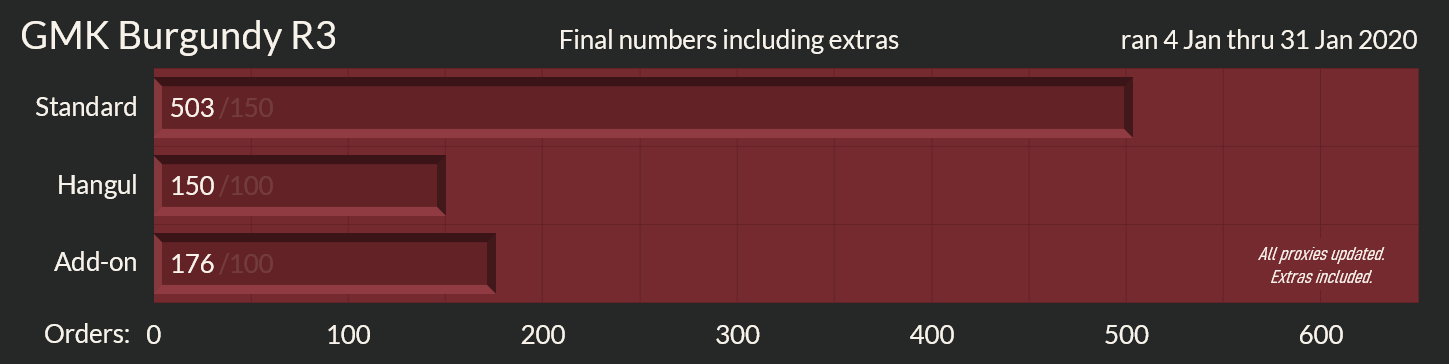
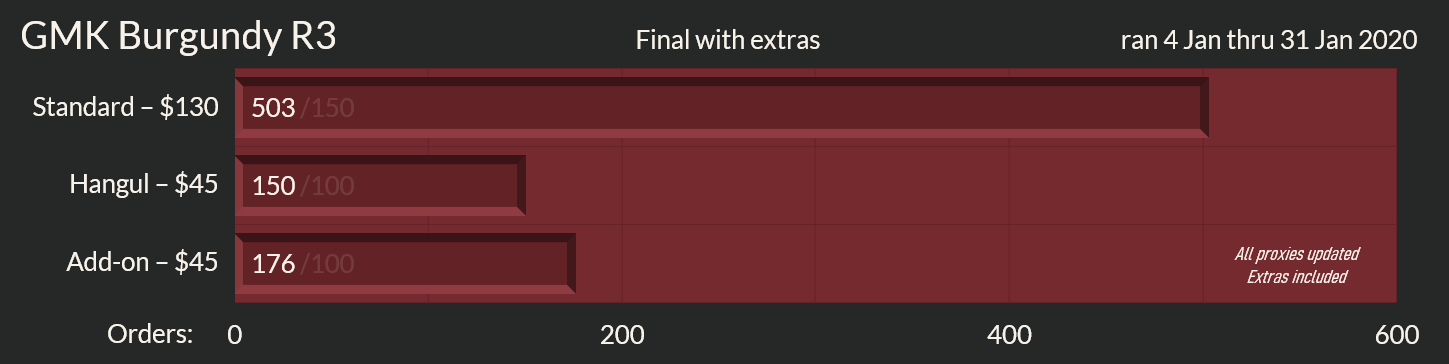
There are 18 files have been modified at 2023-06-11 18:00:20 . 	-rw-rw-r--. 1 jzou jzou 28740 Jun 11 11:37 assets/images/gmk-keycaps/burgundyr3/order.png 	-rw-rw-r-- 1 jzou jzou 1915 Jun 11 11:36 docs/gmk-keycaps/Burgundy-R2.md 	-rw-rw-r-- 1 jzou jzou 2297 Jun 11 11:25 docs/gmk-keycaps/Camping.md 	-

diff --git a/script/download_graph.py b/script/download_graph.py
@@ -11,6 +11,7 @@ TEMP_PIC_FILE = '/tmp/KEYCAP_PIC_FILE'
 
 def download_graph(url, path, sub_path, name):
 
+#    print (os.path.join(path, sub_path, name))
     pattern = r"%s\..*" % name
     for file_name in os.listdir(os.path.join(path, sub_path)):
         if re.match(pattern, file_name):
@@ -37,7 +38,7 @@ def download_graph(url, path, sub_path, name):
         os.rename(TEMP_PIC_FILE, file_path_name)
         return file_path_name
     else:
-        print(file_format)
+#        print(file_format)
         return False
 
 if __name__ == '__main__':

diff --git a/script/generate_md_download_v2.py b/script/generate_md_download_v2.py
@@ -120,6 +120,10 @@ def generate_graph_info(url, sub_path, name):
     if not os.path.isdir(path):
         os.makedirs(path)
     graph_path = download_graph.download_graph(url, KEYCAP_ASSETS_WITH_PATH, sub_path, name)
+    if not graph_path: 
+        print ("unable to download {} from {}".format(name, url))
+        os._exit(os.EX_OSERR)
+
     resize_pic.resize_file(graph_path)
     graph_info = """<img src=\"{{{{ '{}' | relative_url }}}}\" alt=\"{}\" class=\"image featured\">
 """.format(os.path.relpath(graph_path, os.getcwd()), name)

diff --git a/script/exchange_rate.py b/script/exchange_rate.py
@@ -16,9 +16,7 @@ def retrieve_exchange_rate(date, currency = 'USD'):
 
     currency_checked = "currencies=%s,CNY,%s" % ("USD", currency)
     api_url = "%s&%s&%s&%s" % (API_BASE_URL, EXCHANGE_RATE_API_KEY, currency_checked, check_date)
-    print(api_url)
     exchange_rate_result = requests.get(api_url)
-    print(exchange_rate_result.json())
     currency_key_USDtoCNY = "USDCNY"
 #    currency_key_USDtoDest = "USD%s" % currency
     exchange_rate = float(exchange_rate_result.json()['quotes'][currency_key_USDtoCNY])

diff --git a/docs/gmk-keycaps/Blot.md b/docs/gmk-keycaps/Blot.md
@@ -1,0 +1,77 @@
+---
+title: Blot 
+layout: default
+icon: fa-keyboard-o
+parent: GMK Keycaps
+nav_order: 280740
+---
+
+# Blot 
+
+ref link: [Blot GH GB Link](https://geekhack.org/index.php?topic=119946)
+
+* [Price](#price)
+* [Kits](#kits)
+* [Info](#info)
+* [Pictures](#pictures)
+
+## Price
+
+NOTE: USD to CNY exchange rate is 6.87
+
+| Name          | Price(USD)   |  Price(CNY) | Quantity |
+| ------------- | ------------ |  ---------- | -------- |
+|[Base](#base)|129.00|886.48|Unknown|
+|[Outsiders](#outsiders)|40.00|274.88|Unknown|
+|[ESFR](#esfr)|60.00|412.31|Unknown|
+|[NorDeUK](#nordeuk)|55.00|377.95|Unknown|
+|[Novelties](#novelties)|47.00|322.98|Unknown|
+|[Bars](#bars)|16.00|109.95|Unknown|
+|[HIBI Artisan](#hibi-artisan)|55.00|377.95|Unknown|
+
+<img src="{{ 'assets/images/gmk-keycaps/Blot/price.png' | relative_url }}" alt="price" class="image featured">
+
+## Kits
+### Base  
+**Price(USD):** 129.00	**Price(CNY):** 886.48	**Quantity:** Unknown  
+<img src="{{ 'assets/images/gmk-keycaps/Blot/kits_pics/base.png' | relative_url }}" alt="base" class="image featured">
+
+### Outsiders  
+**Price(USD):** 40.00	**Price(CNY):** 274.88	**Quantity:** Unknown  
+<img src="{{ 'assets/images/gmk-keycaps/Blot/kits_pics/outsiders.png' | relative_url }}" alt="outsiders" class="image featured">
+
+### ESFR  
+**Price(USD):** 60.00	**Price(CNY):** 412.31	**Quantity:** Unknown  
+<img src="{{ 'assets/images/gmk-keycaps/Blot/kits_pics/esfr.png' | relative_url }}" alt="esfr" class="image featured">
+
+### NorDeUK  
+**Price(USD):** 55.00	**Price(CNY):** 377.95	**Quantity:** Unknown  
+<img src="{{ 'assets/images/gmk-keycaps/Blot/kits_pics/nordeuk.png' | relative_url }}" alt="nordeuk" class="image featured">
+
+### Novelties  
+**Price(USD):** 47.00	**Price(CNY):** 322.98	**Quantity:** Unknown  
+<img src="{{ 'assets/images/gmk-keycaps/Blot/kits_pics/novelties.png' | relative_url }}" alt="novelties" class="image featured">
+
+### Bars  
+**Price(USD):** 16.00	**Price(CNY):** 109.95	**Quantity:** Unknown  
+<img src="{{ 'assets/images/gmk-keycaps/Blot/kits_pics/bars.png' | relative_url }}" alt="bars" class="image featured">
+
+### HIBI Artisan  
+**Price(USD):** 55.00	**Price(CNY):** 377.95	**Quantity:** Unknown  
+<img src="{{ 'assets/images/gmk-keycaps/Blot/kits_pics/hibi-artisan.jpg' | relative_url }}" alt="hibi-artisan" class="image featured">
+
+## Info
+* Designer: WoobEC  
+* Profile: GMK 1-1-2-3-4-4  
+* GB Time: 2023-03-30 ~ 2023-04-24  
+* Estimated Shipping Time: 2024 Q1-Q2  
+* Color Codes:  
+
+| |Base Color     | Legend Color
+| :-------------: | :-------------: | :------------:
+|Base|Pantone 188C|WS1|
+
+<img src="{{ 'assets/images/gmk-keycaps/Blot/0.jpg' | relative_url }}" alt="0" class="image featured">
+
+## Pictures  
+<img src="{{ 'assets/images/gmk-keycaps/Blot/rendering_pics/0.jpg' | relative_url }}" alt="0" class="image featured">

diff --git a/docs/gmk-keycaps/Lilac-on-Black.md b/docs/gmk-keycaps/Lilac-on-Black.md
@@ -21,33 +21,35 @@ NOTE: USD to CNY exchange rate is 6.91
 
 | Name          | Price(USD)   |  Price(CNY) | Quantity |
 | ------------- | ------------ |  ---------- | -------- |
-|[Base](#base)|125.00|863.37|Unknown|
-|[Alt Alphas](#alt-alphas)|69.00|476.58|Unknown|
-|[NorDeUK](#nordeuk)|69.00|476.58|Unknown|
-|[Spacebars](#spacebars)|29.00|200.30|Unknown|
-|[HIBI Artisan](#hibi-artisan)|45.00|310.81|Unknown|
+|[Base](#base)|125.00|863.37|478|
+|[Alt Alphas](#alt-alphas)|69.00|476.58|121|
+|[NorDeUK](#nordeuk)|69.00|476.58|103|
+|[Spacebars](#spacebars)|29.00|200.30|148|
+|[HIBI Artisan](#hibi-artisan)|45.00|310.81|100|
 
 <img src="{{ 'assets/images/gmk-keycaps/Lilac-on-Black/price.png' | relative_url }}" alt="price" class="image featured">
+<img src="{{ 'assets/images/gmk-keycaps/Lilac-on-Black/history.png' | relative_url }}" alt="history" class="image featured">
+<img src="{{ 'assets/images/gmk-keycaps/Lilac-on-Black/order.png' | relative_url }}" alt="order" class="image featured">
 
 ## Kits
 ### Base  
-**Price(USD):** 125.00	**Price(CNY):** 863.37	**Quantity:** Unknown  
+**Price(USD):** 125.00	**Price(CNY):** 863.37	**Quantity:** 478  
 <img src="{{ 'assets/images/gmk-keycaps/Lilac-on-Black/kits_pics/base.png' | relative_url }}" alt="base" class="image featured">
 
 ### Alt Alphas  
-**Price(USD):** 69.00	**Price(CNY):** 476.58	**Quantity:** Unknown  
+**Price(USD):** 69.00	**Price(CNY):** 476.58	**Quantity:** 121  
 <img src="{{ 'assets/images/gmk-keycaps/Lilac-on-Black/kits_pics/alt-alphas.png' | relative_url }}" alt="alt-alphas" class="image featured">
 
 ### NorDeUK  
-**Price(USD):** 69.00	**Price(CNY):** 476.58	**Quantity:** Unknown  
+**Price(USD):** 69.00	**Price(CNY):** 476.58	**Quantity:** 103  
 <img src="{{ 'assets/images/gmk-keycaps/Lilac-on-Black/kits_pics/nordeuk.png' | relative_url }}" alt="nordeuk" class="image featured">
 
 ### Spacebars  
-**Price(USD):** 29.00	**Price(CNY):** 200.30	**Quantity:** Unknown  
+**Price(USD):** 29.00	**Price(CNY):** 200.30	**Quantity:** 148  
 <img src="{{ 'assets/images/gmk-keycaps/Lilac-on-Black/kits_pics/spacebars.png' | relative_url }}" alt="spacebars" class="image featured">
 
 ### HIBI Artisan  
-**Price(USD):** 45.00	**Price(CNY):** 310.81	**Quantity:** Unknown  
+**Price(USD):** 45.00	**Price(CNY):** 310.81	**Quantity:** 100  
 <img src="{{ 'assets/images/gmk-keycaps/Lilac-on-Black/kits_pics/hibi-artisan.png' | relative_url }}" alt="hibi-artisan" class="image featured">
 
 ## Info

diff --git a/docs/gmk-keycaps/WoB-Essentials.md b/docs/gmk-keycaps/WoB-Essentials.md
@@ -21,33 +21,35 @@ NOTE: USD to CNY exchange rate is 6.95
 
 | Name          | Price(USD)   |  Price(CNY) | Quantity |
 | ------------- | ------------ |  ---------- | -------- |
-|[CMYW](#cmyw)|60.00|416.70|Unknown|
-|[Dark RGB](#dark-rgb)|60.00|416.70|Unknown|
-|[Icons](#icons)|30.00|208.35|Unknown|
-|[Row 5](#row-5)|43.00|298.64|Unknown|
-|[Extensions](#extensions)|47.00|326.42|Unknown|
+|[CMYW](#cmyw)|60.00|416.70|248|
+|[Dark RGB](#dark-rgb)|60.00|416.70|355|
+|[Icons](#icons)|30.00|208.35|279|
+|[Row 5](#row-5)|43.00|298.64|222|
+|[Extensions](#extensions)|47.00|326.42|348|
 
 <img src="{{ 'assets/images/gmk-keycaps/WoB-Essentials/price.png' | relative_url }}" alt="price" class="image featured">
+<img src="{{ 'assets/images/gmk-keycaps/WoB-Essentials/order.png' | relative_url }}" alt="order" class="image featured">
+<img src="{{ 'assets/images/gmk-keycaps/WoB-Essentials/order_no_extra.png' | relative_url }}" alt="order_no_extra" class="image featured">
 
 ## Kits
 ### CMYW  
-**Price(USD):** 60.00	**Price(CNY):** 416.70	**Quantity:** Unknown  
+**Price(USD):** 60.00	**Price(CNY):** 416.70	**Quantity:** 248  
 <img src="{{ 'assets/images/gmk-keycaps/WoB-Essentials/kits_pics/cmyw.png' | relative_url }}" alt="cmyw" class="image featured">
 
 ### Dark RGB  
-**Price(USD):** 60.00	**Price(CNY):** 416.70	**Quantity:** Unknown  
+**Price(USD):** 60.00	**Price(CNY):** 416.70	**Quantity:** 355  
 <img src="{{ 'assets/images/gmk-keycaps/WoB-Essentials/kits_pics/dark-rgb.png' | relative_url }}" alt="dark-rgb" class="image featured">
 
 ### Icons  
-**Price(USD):** 30.00	**Price(CNY):** 208.35	**Quantity:** Unknown  
+**Price(USD):** 30.00	**Price(CNY):** 208.35	**Quantity:** 279  
 <img src="{{ 'assets/images/gmk-keycaps/WoB-Essentials/kits_pics/icons.png' | relative_url }}" alt="icons" class="image featured">
 
 ### Row 5  
-**Price(USD):** 43.00	**Price(CNY):** 298.64	**Quantity:** Unknown  
+**Price(USD):** 43.00	**Price(CNY):** 298.64	**Quantity:** 222  
 <img src="{{ 'assets/images/gmk-keycaps/WoB-Essentials/kits_pics/row-5.png' | relative_url }}" alt="row-5" class="image featured">
 
 ### Extensions  
-**Price(USD):** 47.00	**Price(CNY):** 326.42	**Quantity:** Unknown  
+**Price(USD):** 47.00	**Price(CNY):** 326.42	**Quantity:** 348  
 <img src="{{ 'assets/images/gmk-keycaps/WoB-Essentials/kits_pics/extensions.png' | relative_url }}" alt="extensions" class="image featured">
 
 ## Info

diff --git a/docs/gmk-keycaps/Burgundy-R2.md b/docs/gmk-keycaps/Burgundy-R2.md
@@ -21,22 +21,25 @@ NOTE: USD to RMB exchange rate is 6.42
 
 | Name          | Price(GH)    |  Price(RMB) | Quantity |
 | ------------- | ------------ |  ---------- | -------- |
-|[Base](#base)|165.00|998.00|unknown|
-|[Icon Modifilers](#icon-modifilers)|81.00|488.00|unknown|
-|[KR](#kr)|53.00|298.00|unknown|
+|[Base](#base)|165.00|998.00|101|
+|[Icon Modifilers](#icon-modifilers)|81.00|488.00|67|
+|[KR](#kr)|53.00|298.00|77|
 
+<img src="{{ 'assets/images/gmk-keycaps/burgundyr2/history.png' | relative_url }}" alt="history" class="image featured">
+<img src="{{ 'assets/images/gmk-keycaps/burgundyr2/order.png' | relative_url }}" alt="order" class="image featured">
+<img src="{{ 'assets/images/gmk-keycaps/burgundyr2/order1.png' | relative_url }}" alt="order1" class="image featured">
 
 ## Kits
 ### Base
-**Price(GH):** 165.00    **Price(RMB):** 998.00    **Quantity:** unknown  
+**Price(GH):** 165.00    **Price(RMB):** 998.00    **Quantity:** 101  
 <img src="{{ 'assets/images/gmk-keycaps/burgundyr2/kits_pics/base.png' | relative_url }}" alt="Base" class="image featured">
 
 ### Icon Modifilers
-**Price(GH):** 81.00    **Price(RMB):** 488.00    **Quantity:** unknown  
+**Price(GH):** 81.00    **Price(RMB):** 488.00    **Quantity:** 67  
 <img src="{{ 'assets/images/gmk-keycaps/burgundyr2/kits_pics/icon-modifiers.png' | relative_url }}" alt="Icon Modifilers" class="image featured">
 
 ### KR
-**Price(GH):** 53.00    **Price(RMB):** 298.00    **Quantity:** unknown  
+**Price(GH):** 53.00    **Price(RMB):** 298.00    **Quantity:** 77  
 <img src="{{ 'assets/images/gmk-keycaps/burgundyr2/kits_pics/kr.png' | relative_url }}" alt="KR" class="image featured">
 
 

diff --git a/docs/sa-keycaps/Pulse-R1.md b/docs/sa-keycaps/Pulse-R1.md
@@ -8,7 +8,7 @@ nav_order: 360985
 
 # Pulse R1 脉冲R1
 
-ref link: [Pulse R1 link](https://geekhack.org/index.php?topic=61822.0)
+ref link: [Pulse R1 link](https://geekhack.org/index.php?topic=62554.0)
 
 * [Price](#price)
 * [Kits](#kits)
@@ -23,14 +23,16 @@ NOTE: USD to RMB exchange rate is 6.16
 | ------------- | ------------- | ----------- | ---------- | -------- |
 |[Base](#base)|81.00|498.96|unknown|207|
 |[Novelties](#novelties)|73.00|449.68|unknown|128|
-|[F-Row](#f-row)|10.00|61.60|unknown|unknown|
-|[60% Stripe](#60-stripe)|16.00|98.56|unknown|unknown|
+|[F-Row](#f-row)|10.00|61.60|unknown|42|
+|[60% Stripe](#60-stripe)|16.00|98.56|unknown|58|
 |[Numpad](#numpad)|29.00|178.64|unknown|71|
-|[ISO](#iso)|14.00|86.24|unknown|unknown|
-|[Tsangan](#tsangan)|10.00|61.60|unknown|unknown|
-|[Halfadox](#halfadox)|22.00|135.52|unknown|unknown|
-|[Spacebars](#spacebars)|6.55|40.35|unknown|unknown|
+|[ISO](#iso)|14.00|86.24|unknown|21|
+|[Tsangan](#tsangan)|10.00|61.60|unknown|43|
+|[Halfadox](#halfadox)|22.00|135.52|unknown|37|
+|[Spacebars](#spacebars)|6.55|40.35|unknown|184|
 |[Blanks](#blanks)|0.45|2.77|unknown|unknown|
+
+<img src="{{ 'assets/images/sa-keycaps/pulser1/order.png' | relative_url }}" alt="order" class="image featured">
 
 ## Kits
 ### Base

diff --git a/docs/gmk-keycaps/Camping.md b/docs/gmk-keycaps/Camping.md
@@ -21,17 +21,18 @@ NOTE: USD to RMB exchange rate is 6.29
 
 | Name          | Price(Kono)    |  Price(RMB) | Quantity |
 | ------------- | ------------ |  ---------- | -------- |
-|[Base](#base)|175.00|1100.75|unknown|
-|[Spacebars](#spacebars)|35.00|220.15|unknown|
+|[Base](#base)|175.00|1100.75|365|
+|[Spacebars](#spacebars)|35.00|220.15|220|
 
+<img src="{{ 'assets/images/gmk-keycaps/camping/order.png' | relative_url }}" alt="order" class="image featured">
 
 ## Kits
 ### Base
-**Price(Kono):** 175.00    **Price(RMB):** 1100.75    **Quantity:** unknown  
+**Price(Kono):** 175.00    **Price(RMB):** 1100.75    **Quantity:** 365  
 <img src="{{ 'assets/images/gmk-keycaps/camping/kits_pics/base.jpg' | relative_url }}" alt="Base" class="image featured">
 
 ### Spacebars
-**Price(Kono):** 35.00    **Price(RMB):** 220.15    **Quantity:** unknown  
+**Price(Kono):** 35.00    **Price(RMB):** 220.15    **Quantity:** 220  
 <img src="{{ 'assets/images/gmk-keycaps/camping/kits_pics/spacebars.jpg' | relative_url }}" alt="Spacebars" class="image featured">
 
 

diff --git a/docs/gmk-keycaps/Indigo.md b/docs/gmk-keycaps/Indigo.md
@@ -51,7 +51,7 @@ NOTE: USD to CNY exchange rate is 6.33
 
 ### Novelties  
 **Price(USD):** 42.00	**Price(CNY):** 265.66	**Quantity:** Unknown  
-<img src="{{ 'assets/images/gmk-keycaps/Indigo/kits_pics/novelties.jpg' | relative_url }}" alt="novelties" class="image featured">
+<img src="{{ 'assets/images/gmk-keycaps/Indigo/kits_pics/novelties.png' | relative_url }}" alt="novelties" class="image featured">
 
 ### Monokei Artisan  
 **Price(USD):** 42.00	**Price(CNY):** 265.66	**Quantity:** Unknown  
@@ -71,6 +71,12 @@ NOTE: USD to CNY exchange rate is 6.33
 * GB Time: 2022-02-18 ~ 2022-03-18  
 * Estimated Shipping Time: Q1 2023  
 * Color Codes:  
+
+| |Base Color     | Legend Color
+| :-------------: | :-------------: | :------------:
+|Alphas|RAL 5000|CP|
+|Mods|RAL 5011|CP
+|Novelties|RAL 5014|CP
 
 
 ## Pictures  

diff --git a/docs/gmk-keycaps/Dracula.md b/docs/gmk-keycaps/Dracula.md
@@ -34,6 +34,7 @@ NOTE: USD to CNY exchange rate is 7.15
 
 <img src="{{ 'assets/images/gmk-keycaps/dracula/progress1.png' | relative_url }}" alt="progress1" class="image featured">
 <img src="{{ 'assets/images/gmk-keycaps/dracula/progress2.png' | relative_url }}" alt="progress2" class="image featured">
+<img src="{{ 'assets/images/gmk-keycaps/dracula/order.png' | relative_url }}" alt="order" class="image featured">
 
 ## Kits
 ### Core

diff --git a/index.md b/index.md
@@ -180,6 +180,7 @@ Just buy it :)
 * [GMK Standard Color Codes](docs/gmk-keycaps/ColorCodes/)
 
 ### 2023
+* [Blot](docs/gmk-keycaps/Blot/)
 * [Kitsune](docs/gmk-keycaps/Kitsune/)
 * [3](docs/gmk-keycaps/3/)
 * [Abyssal](docs/gmk-keycaps/Abyssal/)
